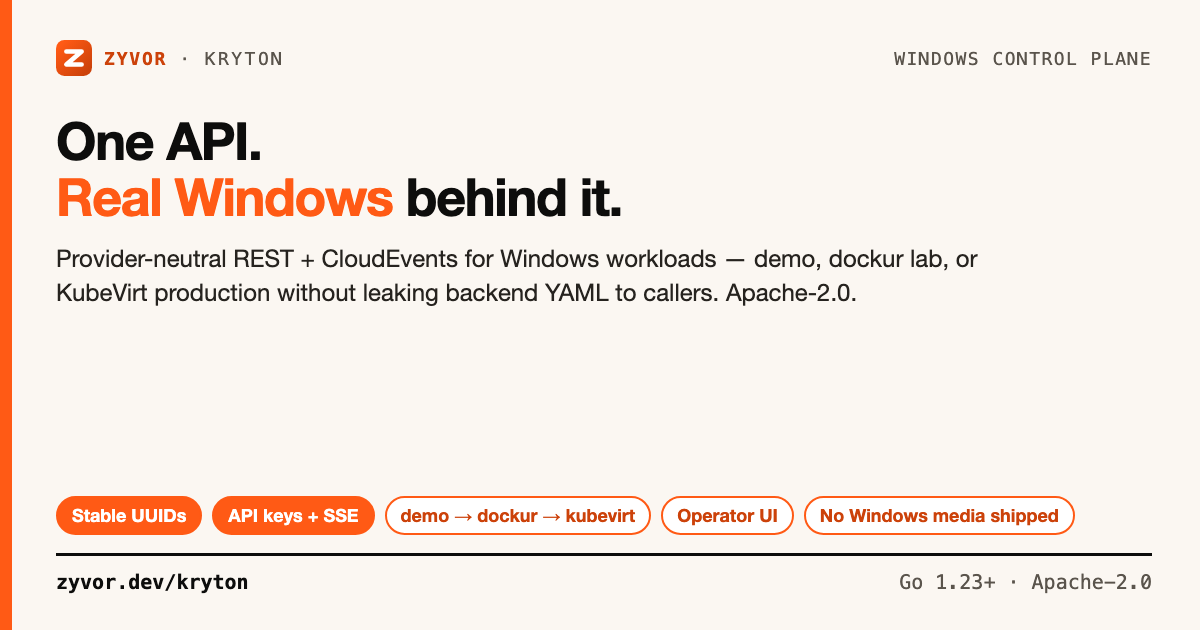
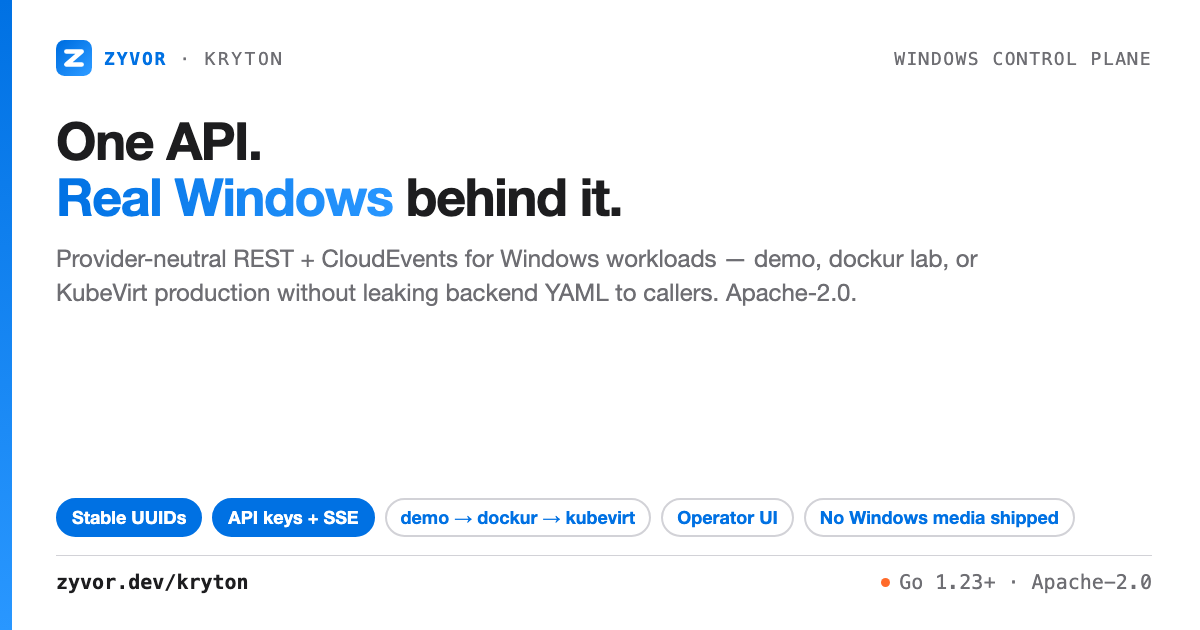
docs(social): re-skin social cards to the Apple.com system palette
Replace the near-black/warm-cream/orange palette on the two social card
HTML sources (kryton-share-card.html, kryton-social-card.html) with the
white/ink/blue Apple.com-style system already used by the MkDocs docs
site (docs/stylesheets/apple-glass.css), so link previews match the
site instead of a separate brand. Orange (#ff6a2a) is kept to exactly
one small accent dot per image. Adds a dedicated blue Zyvor mark
(docs/social/zyvor-mark.svg) for the cards, leaving the sitewide
logo/favicon untouched. Regenerates both PNG/JPG via the existing
Chrome+sips build script and documents the new palette in a new
docs/social/README.md. No copy/claims changed.

diff --git a/docs/social/kryton-social-card.html b/docs/social/kryton-social-card.html
@@ -4,46 +4,47 @@
 <meta charset="utf-8">
 <title>Kryton social card</title>
 <style>
-  :root { --ink:#0d0d0c; --soft:#5a544c; --signal:#ff5a15; --deep:#cc420a; --warm:#fbf7f2;
-    --blue:#2b5fd9; --green:#1f7a4d;
+  :root { --ink:#1d1d1f; --soft:#6e6e73; --signal:#0071e3; --signal2:#2997ff; --deep:#0071e3; --warm:#ffffff; --hair:#d2d2d7; --accent:#ff6a2a;
+    --blue:#2997ff; --navy:#0058b0;
     --sans:'Helvetica Neue',Helvetica,Arial,sans-serif; --mono:'SF Mono',Menlo,Consolas,monospace; }
   * { box-sizing:border-box; }
   html,body { margin:0; padding:0; }
   body { width:1600px; height:900px; overflow:hidden; background:var(--warm); color:var(--ink); font-family:var(--sans); position:relative; }
-  .bar { position:absolute; left:0; top:0; bottom:0; width:14px; background:var(--signal); }
+  .bar { position:absolute; left:0; top:0; bottom:0; width:14px; background:linear-gradient(180deg,var(--signal),var(--signal2)); }
   .wrap { position:absolute; left:72px; right:64px; top:48px; bottom:40px; display:flex; flex-direction:column; }
   .top { display:flex; align-items:center; gap:14px; font-family:var(--mono); font-size:20px; letter-spacing:.14em; text-transform:uppercase; color:var(--soft); }
   .top img { height:40px; }
   .top b { color:var(--deep); letter-spacing:.1em; }
   .top .r { margin-left:auto; letter-spacing:.08em; }
   h1 { margin:26px 0 0; font-size:64px; line-height:1.06; letter-spacing:-.025em; font-weight:700; max-width:1440px; }
-  h1 em { font-style:normal; color:var(--signal); }
-  .sub { margin:16px 0 0; font-size:27px; line-height:1.36; color:#26231f; max-width:1320px; }
+  h1 em { font-style:normal; background:linear-gradient(90deg,var(--signal),var(--signal2)); -webkit-background-clip:text; background-clip:text; color:transparent; }
+  .sub { margin:16px 0 0; font-size:27px; line-height:1.36; color:var(--soft); max-width:1320px; }
   .flow { margin-top:34px; display:grid; grid-template-columns:repeat(5,1fr); gap:34px; }
   .step { position:relative; background:#fff; border:2.5px solid var(--c); border-radius:16px; padding:18px 20px 18px 24px; min-height:222px; }
   .step::before { content:""; position:absolute; left:0; top:0; bottom:0; width:9px; background:var(--c); border-radius:13px 0 0 13px; }
   .step:not(:last-child)::after { content:""; position:absolute; right:-31px; top:50%; width:0; height:0; margin-top:-11px;
-    border-left:16px solid var(--soft); border-top:11px solid transparent; border-bottom:11px solid transparent; }
+    border-left:16px solid var(--hair); border-top:11px solid transparent; border-bottom:11px solid transparent; }
   .lane { display:inline-block; font-family:var(--mono); font-size:15px; font-weight:700; letter-spacing:.12em; color:#fff; background:var(--c); padding:3px 10px; border-radius:11px; }
   .n { float:right; width:34px; height:34px; border-radius:50%; background:var(--c); color:#fff; font-weight:700; font-size:19px; line-height:34px; text-align:center; }
   .step h3 { margin:14px 0 8px; font-size:27px; line-height:1.14; letter-spacing:-.01em; }
   .step p { margin:0; font-size:20.5px; line-height:1.34; color:var(--soft); }
-  .k { --c:var(--signal); } .a { --c:var(--ink); } .c { --c:var(--blue); } .o { --c:var(--green); } .o2 { --c:var(--deep); }
-  .attr { margin-top:22px; display:flex; align-items:center; gap:16px; background:var(--ink); color:#f3ede4; border-radius:12px; padding:13px 22px; font-family:var(--mono); font-size:22px; white-space:nowrap; }
-  .attr .tag { color:var(--signal); font-weight:700; letter-spacing:.1em; font-size:16px; }
-  .attr .why { margin-left:auto; color:#a39a8d; font-size:15px; letter-spacing:.06em; text-transform:uppercase; }
+  .k { --c:var(--signal); } .a { --c:var(--ink); } .c { --c:var(--blue); } .o { --c:var(--soft); } .o2 { --c:var(--navy); }
+  .attr { margin-top:22px; display:flex; align-items:center; gap:16px; background:var(--ink); color:#f5f5f7; border-radius:12px; padding:13px 22px; font-family:var(--mono); font-size:22px; white-space:nowrap; }
+  .attr .tag { color:var(--signal2); font-weight:700; letter-spacing:.1em; font-size:16px; }
+  .attr .why { margin-left:auto; color:#a1a1a6; font-size:15px; letter-spacing:.06em; text-transform:uppercase; }
   .chips { margin-top:auto; padding-top:22px; display:flex; flex-wrap:wrap; gap:10px; }
   .chip { font-size:20px; font-weight:700; padding:5px 14px; border-radius:20px; background:var(--signal); color:#fff; border:2px solid var(--signal); }
-  .chip.g { background:#fff; color:var(--deep); border:2px solid var(--signal); }
-  .foot { margin-top:18px; padding-top:14px; border-top:3px solid var(--ink); display:flex; align-items:center; font-family:var(--mono); font-size:22px; color:var(--soft); }
+  .chip.g { background:#fff; color:var(--deep); border:2px solid var(--hair); }
+  .foot { margin-top:18px; padding-top:14px; border-top:1px solid var(--hair); display:flex; align-items:center; font-family:var(--mono); font-size:22px; color:var(--soft); }
   .foot b { color:var(--ink); }
-  .foot .r { margin-left:auto; }
+  .foot .r { margin-left:auto; display:flex; align-items:center; gap:10px; }
+  .foot .dot { display:inline-block; width:11px; height:11px; border-radius:50%; background:var(--accent); }
 </style>
 </head>
 <body>
 <div class="bar"></div>
 <div class="wrap">
-  <div class="top"><img src="../assets/readme/zyvor-logo.svg" alt=""><b>Zyvor</b><span>&middot;</span><span>Kryton</span><span class="r">REST + CloudEvents</span></div>
+  <div class="top"><img src="zyvor-mark.svg" alt=""><b>Zyvor</b><span>&middot;</span><span>Kryton</span><span class="r">REST + CloudEvents</span></div>
   <h1>One API. <em>Real Windows</em> behind it.</h1>
   <p class="sub">Portals, CI, and automation call one contract. Kubernetes, KubeVirt, and dockur stay behind the provider boundary — stable machine UUIDs end to end.</p>
   <div class="flow">
@@ -63,7 +64,7 @@
     <span class="chip">Helm chart</span><span class="chip">Golden images</span>
     <span class="chip g">Rook / Longhorn</span><span class="chip g">Atlas optional</span><span class="chip g">Apache-2.0</span>
   </div>
-  <div class="foot"><span><b>zyvor.dev/docs/kryton</b></span><span class="r">Go 1.23+ &middot; Apache-2.0</span></div>
+  <div class="foot"><span><b>zyvor.dev/docs/kryton</b></span><span class="r"><span class="dot"></span>Go 1.23+ &middot; Apache-2.0</span></div>
 </div>
 </body>
 </html>

diff --git a/docs/social/kryton-share-card.html b/docs/social/kryton-share-card.html
@@ -4,32 +4,33 @@
 <meta charset="utf-8">
 <title>Kryton share card</title>
 <style>
-  :root { --ink:#0d0d0c; --soft:#5a544c; --signal:#ff5a15; --deep:#cc420a; --warm:#fbf7f2;
+  :root { --ink:#1d1d1f; --soft:#6e6e73; --signal:#0071e3; --signal2:#2997ff; --deep:#0071e3; --warm:#ffffff; --hair:#d2d2d7; --accent:#ff6a2a;
     --sans:'Helvetica Neue',Helvetica,Arial,sans-serif; --mono:'SF Mono',Menlo,Consolas,monospace; }
   * { box-sizing:border-box; }
   html,body { margin:0; padding:0; }
   body { width:1200px; height:630px; overflow:hidden; background:var(--warm); color:var(--ink); font-family:var(--sans); position:relative; }
-  .bar { position:absolute; left:0; top:0; bottom:0; width:12px; background:var(--signal); }
+  .bar { position:absolute; left:0; top:0; bottom:0; width:12px; background:linear-gradient(180deg,var(--signal),var(--signal2)); }
   .wrap { position:absolute; left:56px; right:48px; top:40px; bottom:36px; display:flex; flex-direction:column; }
   .top { display:flex; align-items:center; gap:12px; font-family:var(--mono); font-size:18px; letter-spacing:.14em; text-transform:uppercase; color:var(--soft); }
   .top img { height:36px; }
   .top b { color:var(--deep); letter-spacing:.1em; }
   .top .r { margin-left:auto; letter-spacing:.08em; }
   h1 { margin:36px 0 0; font-size:52px; line-height:1.08; letter-spacing:-.025em; font-weight:700; max-width:1080px; }
-  h1 em { font-style:normal; color:var(--signal); }
-  .sub { margin:18px 0 0; font-size:24px; line-height:1.4; color:#26231f; max-width:980px; }
+  h1 em { font-style:normal; background:linear-gradient(90deg,var(--signal),var(--signal2)); -webkit-background-clip:text; background-clip:text; color:transparent; }
+  .sub { margin:18px 0 0; font-size:24px; line-height:1.4; color:var(--soft); max-width:980px; }
   .chips { margin-top:auto; display:flex; flex-wrap:wrap; gap:10px; padding-bottom:18px; }
   .chip { font-size:18px; font-weight:700; padding:6px 14px; border-radius:20px; background:var(--signal); color:#fff; border:2px solid var(--signal); }
-  .chip.g { background:#fff; color:var(--deep); border:2px solid var(--signal); }
-  .foot { padding-top:14px; border-top:3px solid var(--ink); display:flex; align-items:center; font-family:var(--mono); font-size:20px; color:var(--soft); }
+  .chip.g { background:#fff; color:var(--deep); border:2px solid var(--hair); }
+  .foot { padding-top:14px; border-top:1px solid var(--hair); display:flex; align-items:center; font-family:var(--mono); font-size:20px; color:var(--soft); }
   .foot b { color:var(--ink); }
-  .foot .r { margin-left:auto; }
+  .foot .r { margin-left:auto; display:flex; align-items:center; gap:9px; }
+  .foot .dot { display:inline-block; width:9px; height:9px; border-radius:50%; background:var(--accent); }
 </style>
 </head>
 <body>
 <div class="bar"></div>
 <div class="wrap">
-  <div class="top"><img src="../assets/readme/zyvor-logo.svg" alt=""><b>Zyvor</b><span>&middot;</span><span>Kryton</span><span class="r">Windows control plane</span></div>
+  <div class="top"><img src="zyvor-mark.svg" alt=""><b>Zyvor</b><span>&middot;</span><span>Kryton</span><span class="r">Windows control plane</span></div>
   <h1>One API.<br><em>Real Windows</em> behind it.</h1>
   <p class="sub">Provider-neutral REST + CloudEvents for Windows workloads — demo, dockur lab, or KubeVirt production without leaking backend YAML to callers. Apache-2.0.</p>
   <div class="chips">
@@ -39,7 +40,7 @@
     <span class="chip g">Operator UI</span>
     <span class="chip g">No Windows media shipped</span>
   </div>
-  <div class="foot"><span><b>zyvor.dev/kryton</b></span><span class="r">Go 1.23+ &middot; Apache-2.0</span></div>
+  <div class="foot"><span><b>zyvor.dev/kryton</b></span><span class="r"><span class="dot"></span>Go 1.23+ &middot; Apache-2.0</span></div>
 </div>
 </body>
 </html>

diff --git a/docs/social/README.md b/docs/social/README.md
@@ -1,0 +1,50 @@
+# Kryton social cards
+
+Static HTML sources for the images used in link previews (Slack, GitHub, X,
+Open Graph). Rendered with headless Chrome and converted with macOS `sips` —
+see [`build-social-card.sh`](build-social-card.sh).
+
+| File | Size | Used for |
+| --- | --- | --- |
+| `kryton-share-card.html` → `kryton-share-card.png` | 1200×630 | README hero / Open Graph share card |
+| `kryton-social-card.html` → `kryton-social-card.jpg` | 1600×900 | Wide social card (X/Twitter, LinkedIn) |
+| `zyvor-mark.svg` | — | Zyvor "Z" mark used in both cards' top-left lockup |
+
+Regenerate after any edit:
+
+```sh
+./docs/social/build-social-card.sh
+```
+
+Every claim shown on the cards (Stable UUIDs, `demo` → `dockur` → `kubevirt`,
+KubeVirt = GA path, `dockur` lab installer not GA, Go 1.23+, Apache-2.0, etc.)
+is sourced from the project's top-level `README.md` and the rest of `docs/`.
+If you change wording on a card, verify it against those sources — don't
+invent new claims.
+
+## Palette
+
+The cards share the same Apple.com-style system as the MkDocs site
+(`docs/stylesheets/apple-glass.css`), so link previews match the docs site
+instead of introducing a separate brand:
+
+- **Background / surfaces:** white `#ffffff`, hairline `#d2d2d7`.
+- **Text:** ink `#1d1d1f` (headings/body), secondary `#6e6e73` (subheads,
+  footers).
+- **Brand blue (dominant color):** gradient `#0071e3` → `#2997ff` — used for
+  the accent bar, the Zyvor mark, the emphasized headline phrase, chips, and
+  step/lane accents.
+- **Orange accent `#ff6a2a`:** used exactly once per image, as a small dot
+  next to the footer's version line — never as a background or primary
+  color.
+- **Zyvor "Z" mark:** `zyvor-mark.svg`, blue gradient (`#0071e3` →
+  `#2997ff`), matching the brand blue above. This is a dedicated copy for
+  the social cards; it does not affect the sitewide logo/favicon in
+  `docs/assets/readme/zyvor-logo.svg`, which still uses the legacy mark.
+- **Type:** Helvetica Neue (sans) for copy, SF Mono/Menlo (mono) for
+  labels/footers — unchanged.
+
+Previously the cards used a near-black/warm-cream/orange palette
+(`--ink:#0d0d0c`, `--soft:#5a544c`, `--signal:#ff5a15`, `--deep:#cc420a`,
+`--warm:#fbf7f2`, plus stray green/blue chip colors on the 16:9 card). That
+has been fully replaced by the palette above.
